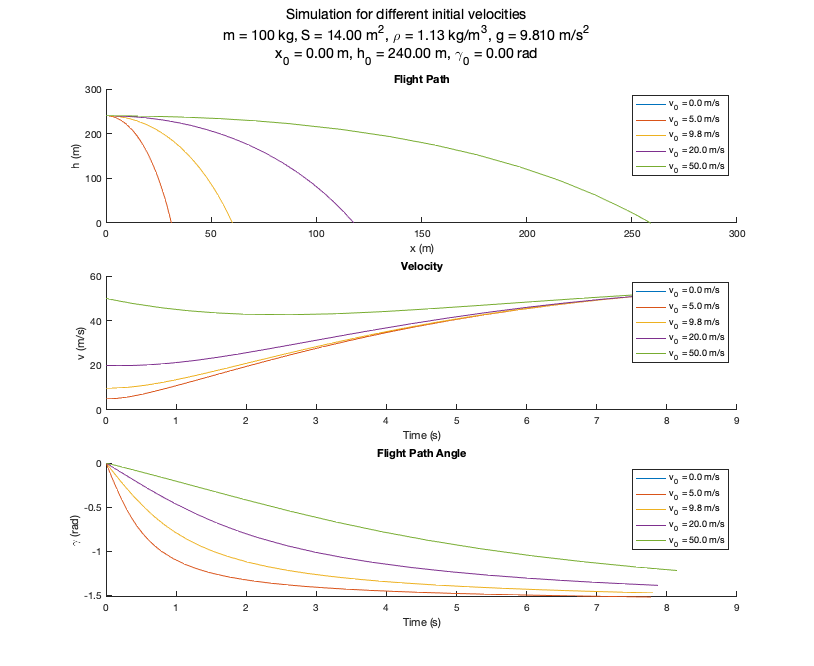
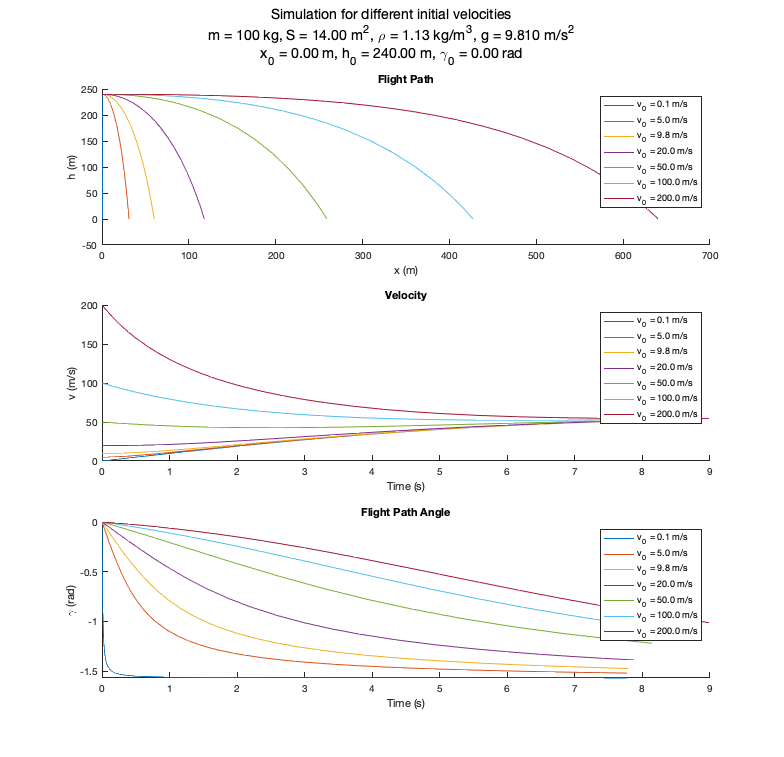
added simulations

diff --git a/plot_velocities.m b/plot_velocities.m
@@ -17,7 +17,7 @@ rho = 1.13;             % Air density in kg/m^3s
 cl = 0;                 % Lift coefficient
 
 % Array of initial velocities to test
-v0_array = [0, 5, 9.8, 20, 50];  % Initial velocities (m/s)
+v0_array = [0.1, 5, 9.8, 20, 50, 100, 200];  % Initial velocities (m/s)
 
 % Initialize figure and subplots
 figureHandle = figure;
